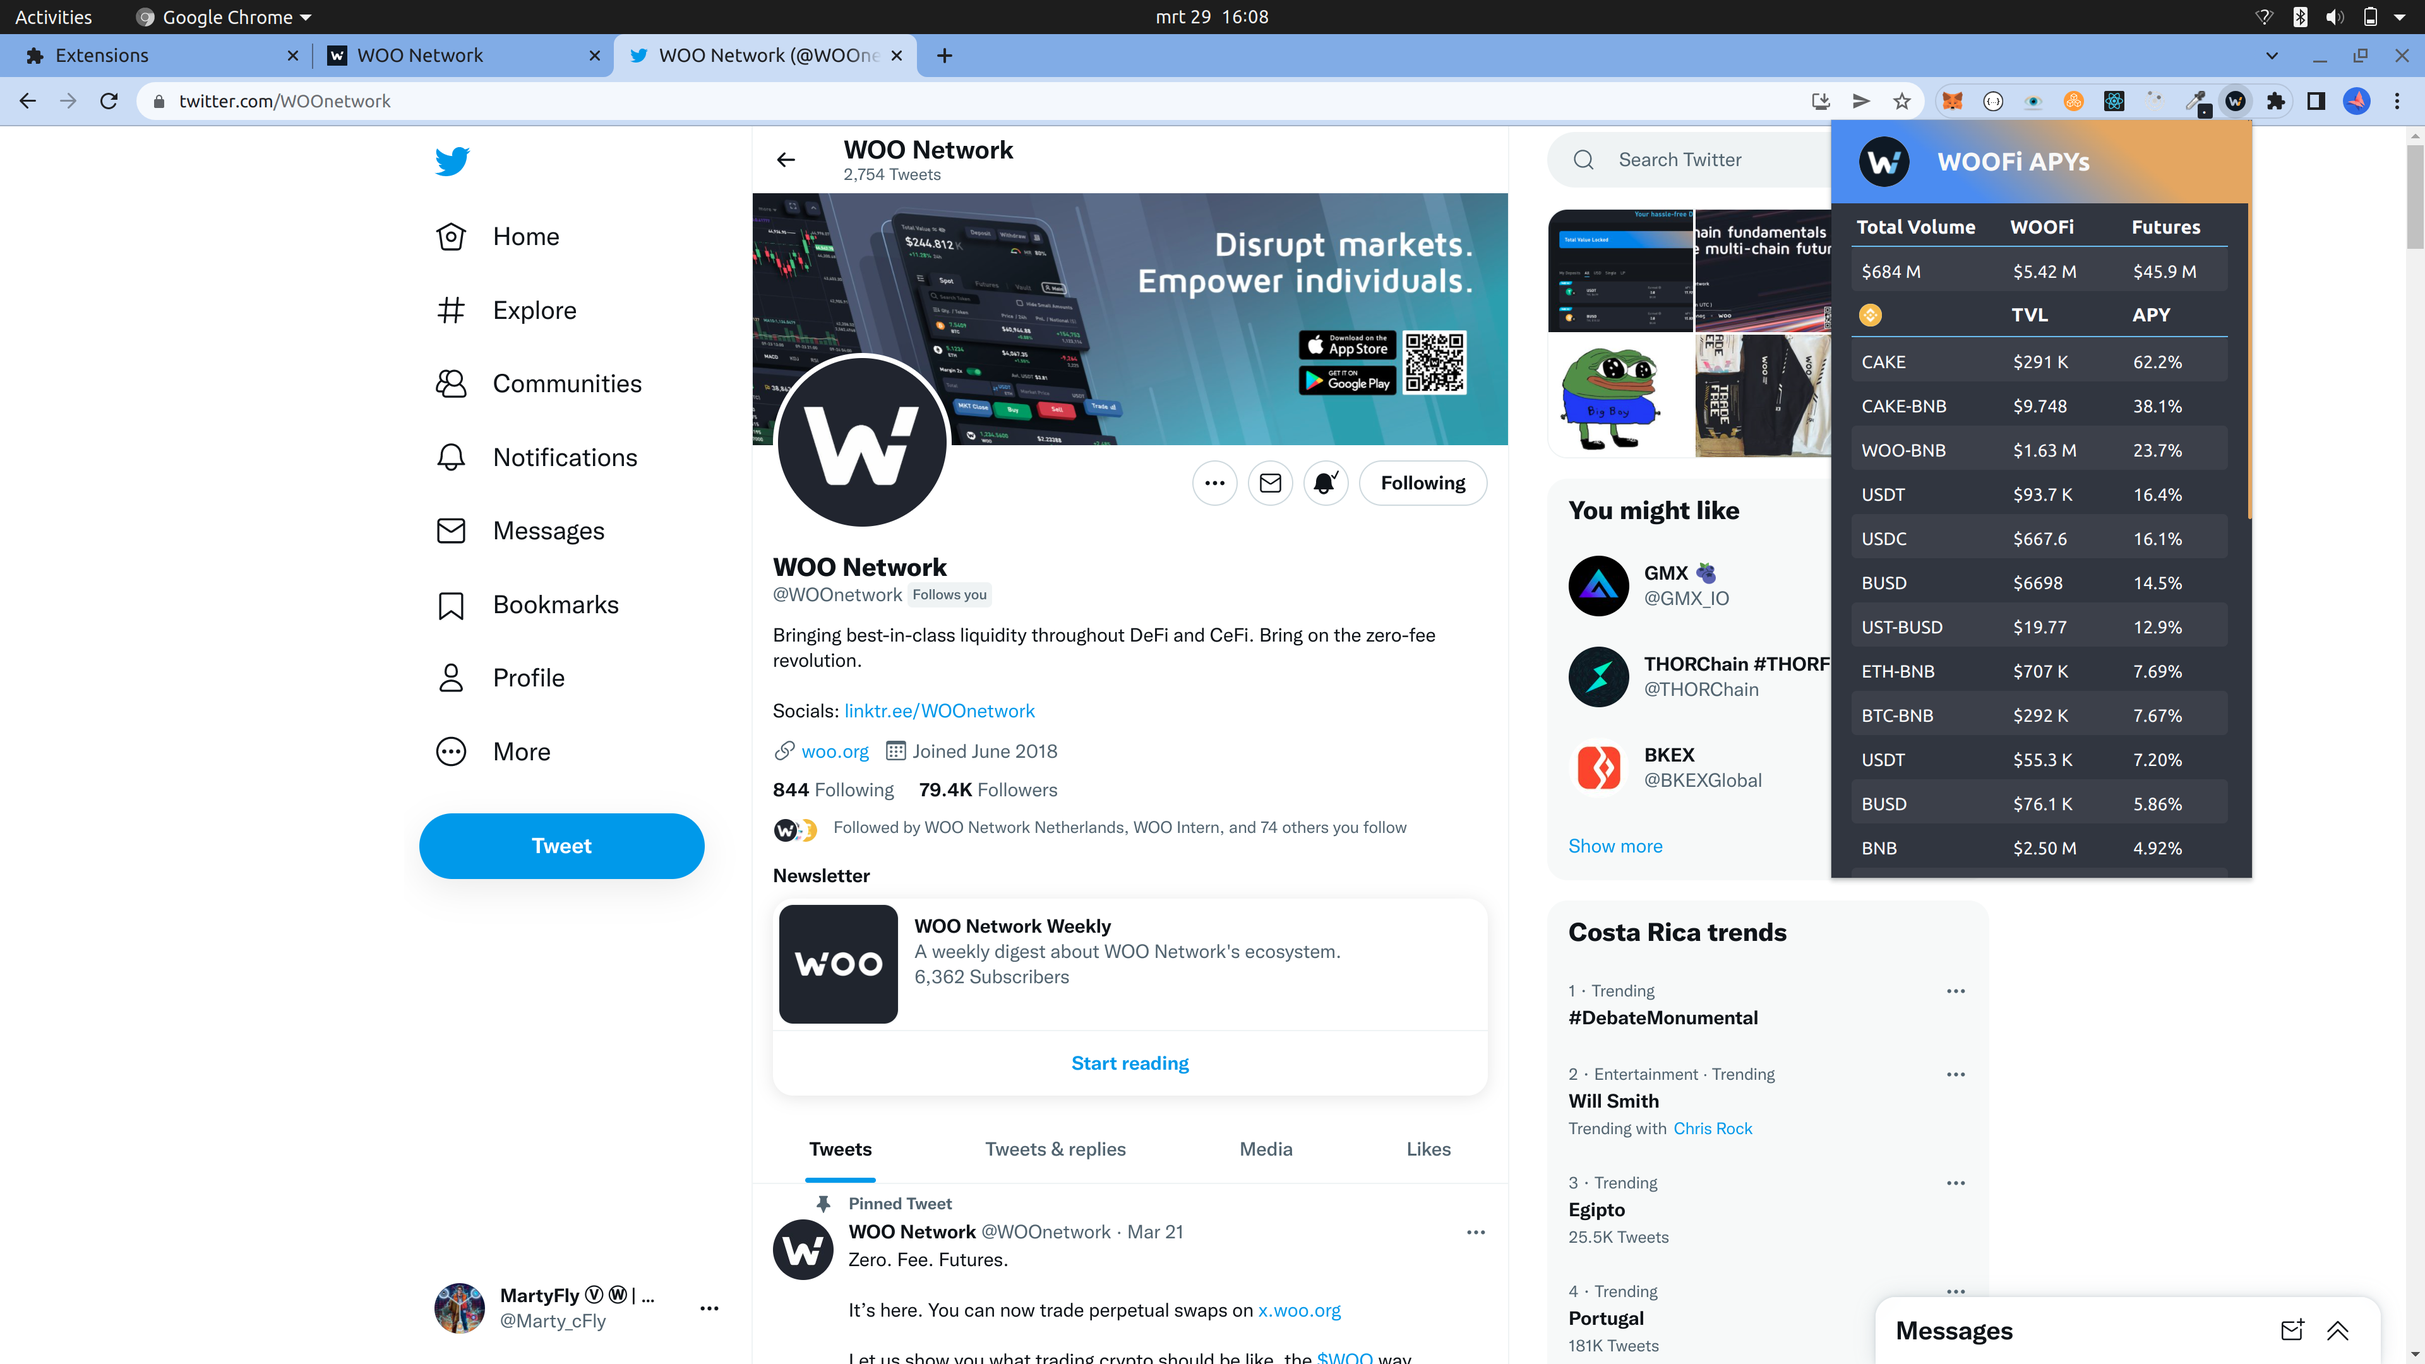
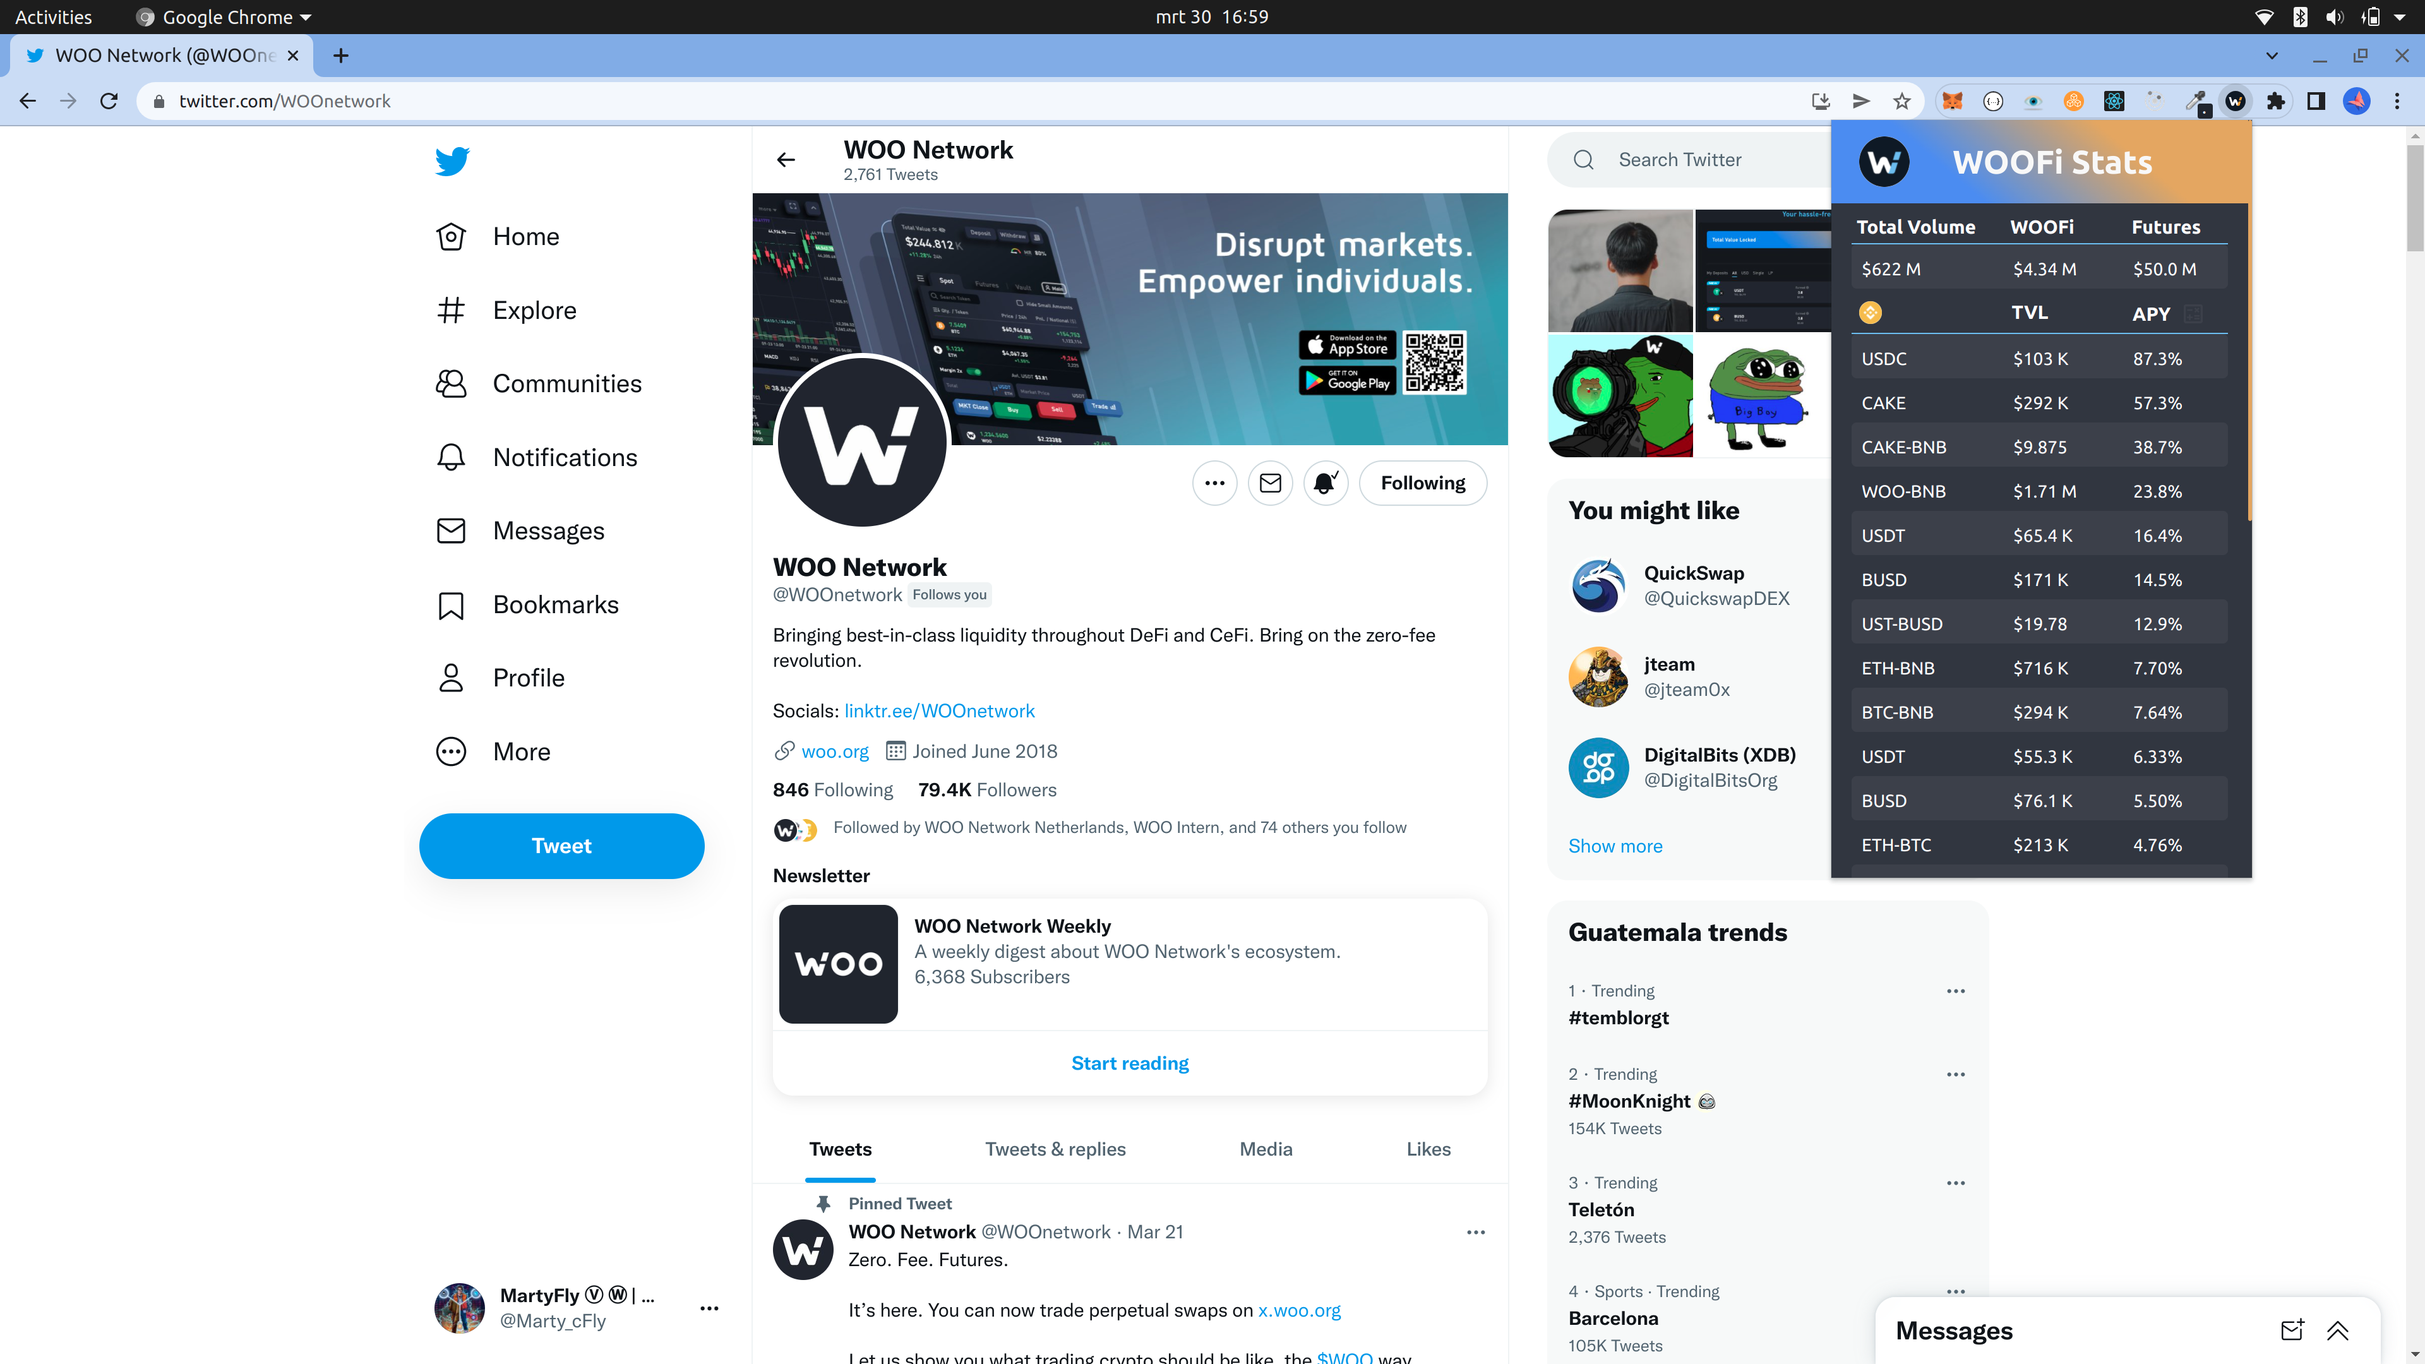
doc: Updated preview images

diff --git a/dist/popup.js b/dist/popup.js
@@ -99,7 +99,7 @@ __webpack_require__.r(__webpack_exports__);
 
 var ___CSS_LOADER_EXPORT___ = _node_modules_css_loader_dist_runtime_api_js__WEBPACK_IMPORTED_MODULE_1___default()((_node_modules_css_loader_dist_runtime_cssWithMappingToString_js__WEBPACK_IMPORTED_MODULE_0___default()));
 // Module
-___CSS_LOADER_EXPORT___.push([module.id, "#interaction-field {\n\tdisplay: flex;\n\tflex-direction: column;\n\tmargin: 0 16px;\n\tpadding: 8px 0 7px;\n\n\tcolor: white;\n}\n#interaction-field-header {\n\tborder-bottom: 1px solid #73bef4;\n\tfont-size: 15px;\n\tpadding: 3px 0px;\n\tpadding-left: 6px;\n\n\tfont-weight: bold;\n}\n\n.interaction-field-row {\n\tdisplay: flex;\n\t/* justify-content: flex-start; */\n\tjustify-content: space-between;\n\tpadding: 0 0 0 6px;\n}\n.input-field {\n\tmin-width: 25%;\n\tpadding: 2px 0;\n\tfont-size: 15px;\n}\n#input-amount {\n\tpadding: 0 2px;\n\n\twidth: 35px;\n\n\tcolor: white;\n\tbackground-color: #3c404b;\n\tborder: none;\n\tborder-radius: 4px;\n}\n\n#input-apy {\n\tpadding: 0 2px;\n\twidth: 35px;\n\n\tcolor: white;\n\tbackground-color: #3c404b;\n\tborder: none;\n\tborder-radius: 4px;\n}\n\n#input-days {\n\tpadding: 0 2px;\n\twidth: 35px;\n\n\tcolor: white;\n\tbackground-color: #3c404b;\n\tborder: none;\n\tborder-radius: 4px;\n}\n", "",{"version":3,"sources":["webpack://./src/components/InteractionField/InteractionField.css"],"names":[],"mappings":"AAAA;CACC,aAAa;CACb,sBAAsB;CACtB,cAAc;CACd,kBAAkB;;CAElB,YAAY;AACb;AACA;CACC,gCAAgC;CAChC,eAAe;CACf,gBAAgB;CAChB,iBAAiB;;CAEjB,iBAAiB;AAClB;;AAEA;CACC,aAAa;CACb,iCAAiC;CACjC,8BAA8B;CAC9B,kBAAkB;AACnB;AACA;CACC,cAAc;CACd,cAAc;CACd,eAAe;AAChB;AACA;CACC,cAAc;;CAEd,WAAW;;CAEX,YAAY;CACZ,yBAAyB;CACzB,YAAY;CACZ,kBAAkB;AACnB;;AAEA;CACC,cAAc;CACd,WAAW;;CAEX,YAAY;CACZ,yBAAyB;CACzB,YAAY;CACZ,kBAAkB;AACnB;;AAEA;CACC,cAAc;CACd,WAAW;;CAEX,YAAY;CACZ,yBAAyB;CACzB,YAAY;CACZ,kBAAkB;AACnB","sourcesContent":["#interaction-field {\n\tdisplay: flex;\n\tflex-direction: column;\n\tmargin: 0 16px;\n\tpadding: 8px 0 7px;\n\n\tcolor: white;\n}\n#interaction-field-header {\n\tborder-bottom: 1px solid #73bef4;\n\tfont-size: 15px;\n\tpadding: 3px 0px;\n\tpadding-left: 6px;\n\n\tfont-weight: bold;\n}\n\n.interaction-field-row {\n\tdisplay: flex;\n\t/* justify-content: flex-start; */\n\tjustify-content: space-between;\n\tpadding: 0 0 0 6px;\n}\n.input-field {\n\tmin-width: 25%;\n\tpadding: 2px 0;\n\tfont-size: 15px;\n}\n#input-amount {\n\tpadding: 0 2px;\n\n\twidth: 35px;\n\n\tcolor: white;\n\tbackground-color: #3c404b;\n\tborder: none;\n\tborder-radius: 4px;\n}\n\n#input-apy {\n\tpadding: 0 2px;\n\twidth: 35px;\n\n\tcolor: white;\n\tbackground-color: #3c404b;\n\tborder: none;\n\tborder-radius: 4px;\n}\n\n#input-days {\n\tpadding: 0 2px;\n\twidth: 35px;\n\n\tcolor: white;\n\tbackground-color: #3c404b;\n\tborder: none;\n\tborder-radius: 4px;\n}\n"],"sourceRoot":""}]);
+___CSS_LOADER_EXPORT___.push([module.id, "#interaction-field {\n\tdisplay: flex;\n\tflex-direction: column;\n\tmargin: 0 16px;\n\tpadding: 8px 0 0px;\n\n\tcolor: white;\n}\n#interaction-field-header {\n\tborder-bottom: 1px solid #73bef4;\n\tfont-size: 15px;\n\tpadding: 3px 0px;\n\tpadding-left: 6px;\n\n\tfont-weight: bold;\n}\n\n.interaction-field-row {\n\tdisplay: flex;\n\t/* justify-content: flex-start; */\n\tjustify-content: space-between;\n\tpadding: 0 0 0 6px;\n}\n.input-field {\n\tmin-width: 25%;\n\tpadding: 2px 0;\n\tfont-size: 15px;\n}\n#input-amount {\n\tpadding: 1px 2px;\n\n\twidth: 40px;\n\n\tcolor: white;\n\tbackground-color: #3c404b;\n\tborder: none;\n\tborder-radius: 4px;\n}\n\n#input-apy {\n\tpadding: 1px 2px;\n\twidth: 35px;\n\n\tcolor: white;\n\tbackground-color: #3c404b;\n\tborder: none;\n\tborder-radius: 4px;\n}\n\n#input-days {\n\tpadding: 1px 2px;\n\twidth: 35px;\n\n\tcolor: white;\n\tbackground-color: #3c404b;\n\tborder: none;\n\tborder-radius: 4px;\n}\n", "",{"version":3,"sources":["webpack://./src/components/InteractionField/InteractionField.css"],"names":[],"mappings":"AAAA;CACC,aAAa;CACb,sBAAsB;CACtB,cAAc;CACd,kBAAkB;;CAElB,YAAY;AACb;AACA;CACC,gCAAgC;CAChC,eAAe;CACf,gBAAgB;CAChB,iBAAiB;;CAEjB,iBAAiB;AAClB;;AAEA;CACC,aAAa;CACb,iCAAiC;CACjC,8BAA8B;CAC9B,kBAAkB;AACnB;AACA;CACC,cAAc;CACd,cAAc;CACd,eAAe;AAChB;AACA;CACC,gBAAgB;;CAEhB,WAAW;;CAEX,YAAY;CACZ,yBAAyB;CACzB,YAAY;CACZ,kBAAkB;AACnB;;AAEA;CACC,gBAAgB;CAChB,WAAW;;CAEX,YAAY;CACZ,yBAAyB;CACzB,YAAY;CACZ,kBAAkB;AACnB;;AAEA;CACC,gBAAgB;CAChB,WAAW;;CAEX,YAAY;CACZ,yBAAyB;CACzB,YAAY;CACZ,kBAAkB;AACnB","sourcesContent":["#interaction-field {\n\tdisplay: flex;\n\tflex-direction: column;\n\tmargin: 0 16px;\n\tpadding: 8px 0 0px;\n\n\tcolor: white;\n}\n#interaction-field-header {\n\tborder-bottom: 1px solid #73bef4;\n\tfont-size: 15px;\n\tpadding: 3px 0px;\n\tpadding-left: 6px;\n\n\tfont-weight: bold;\n}\n\n.interaction-field-row {\n\tdisplay: flex;\n\t/* justify-content: flex-start; */\n\tjustify-content: space-between;\n\tpadding: 0 0 0 6px;\n}\n.input-field {\n\tmin-width: 25%;\n\tpadding: 2px 0;\n\tfont-size: 15px;\n}\n#input-amount {\n\tpadding: 1px 2px;\n\n\twidth: 40px;\n\n\tcolor: white;\n\tbackground-color: #3c404b;\n\tborder: none;\n\tborder-radius: 4px;\n}\n\n#input-apy {\n\tpadding: 1px 2px;\n\twidth: 35px;\n\n\tcolor: white;\n\tbackground-color: #3c404b;\n\tborder: none;\n\tborder-radius: 4px;\n}\n\n#input-days {\n\tpadding: 1px 2px;\n\twidth: 35px;\n\n\tcolor: white;\n\tbackground-color: #3c404b;\n\tborder: none;\n\tborder-radius: 4px;\n}\n"],"sourceRoot":""}]);
 // Exports
 /* harmony default export */ const __WEBPACK_DEFAULT_EXPORT__ = (___CSS_LOADER_EXPORT___);
 
@@ -778,14 +778,17 @@ __webpack_require__.r(__webpack_exports__);
 
 
 
-const YieldFieldHeader = ({ logo, value_2, value_3, functionCallback, }) => {
+const YieldFieldHeader = ({ logo, value_2, value_3, functionCallback, displayCalculator, }) => {
     return (react__WEBPACK_IMPORTED_MODULE_0__.createElement("div", { className: "yield-field-header-values" },
         react__WEBPACK_IMPORTED_MODULE_0__.createElement("div", { className: "yield-field-header-value yield-field-header-logo" },
             react__WEBPACK_IMPORTED_MODULE_0__.createElement("img", { src: logo })),
         react__WEBPACK_IMPORTED_MODULE_0__.createElement("div", { className: "yield-field-header-value" }, value_2),
         react__WEBPACK_IMPORTED_MODULE_0__.createElement("div", { className: "yield-field-header-value" },
             value_3,
-            functionCallback && (react__WEBPACK_IMPORTED_MODULE_0__.createElement(_mui_material_IconButton__WEBPACK_IMPORTED_MODULE_2__.default, { style: { padding: '0 0 3px 8px', color: '#3c404b' }, "aria-label": "Calculate Yield", onClick: () => functionCallback(), size: "small" },
+            functionCallback && (react__WEBPACK_IMPORTED_MODULE_0__.createElement(_mui_material_IconButton__WEBPACK_IMPORTED_MODULE_2__.default, { style: {
+                    padding: '0 0 3px 8px',
+                    color: displayCalculator ? '#73bef4' : '#3c404b',
+                }, "aria-label": "Calculate Yield", onClick: () => functionCallback(), size: "small" },
                 react__WEBPACK_IMPORTED_MODULE_0__.createElement(_mui_icons_material_CalculateOutlined__WEBPACK_IMPORTED_MODULE_3__.default, { fontSize: "small" }))))));
 };
 /* harmony default export */ const __WEBPACK_DEFAULT_EXPORT__ = (YieldFieldHeader);
@@ -858,7 +861,7 @@ const App = () => {
     const [wooFi1DTotalVolume, setWooFi1DTotalVolume] = (0,react__WEBPACK_IMPORTED_MODULE_0__.useState)(0);
     const [wooNetworkInfo, setWooNetworkInfo] = (0,react__WEBPACK_IMPORTED_MODULE_0__.useState)();
     const [wooNetworkFuturesVolume, setWooNetworkFuturesVolume] = (0,react__WEBPACK_IMPORTED_MODULE_0__.useState)(0);
-    const [dispayCalculator, setDispayCalculator] = react__WEBPACK_IMPORTED_MODULE_0__.useState(false);
+    const [displayCalculator, setDisplayCalculator] = react__WEBPACK_IMPORTED_MODULE_0__.useState(false);
     (0,react__WEBPACK_IMPORTED_MODULE_0__.useEffect)(() => {
         getFuturesInfo();
         getWooNetworkInfo();
@@ -866,7 +869,7 @@ const App = () => {
         getaWooFiApyInfo();
     }, []);
     const handleCalculatorChange = () => {
-        setDispayCalculator(!dispayCalculator);
+        setDisplayCalculator(!displayCalculator);
     };
     function getaWooFiApyInfo() {
         return __awaiter(this, void 0, void 0, function* () {
@@ -916,13 +919,13 @@ const App = () => {
     };
     return (react__WEBPACK_IMPORTED_MODULE_0__.createElement(react__WEBPACK_IMPORTED_MODULE_0__.Fragment, null,
         react__WEBPACK_IMPORTED_MODULE_0__.createElement(_components_HeaderField__WEBPACK_IMPORTED_MODULE_4__.default, null),
-        dispayCalculator && react__WEBPACK_IMPORTED_MODULE_0__.createElement(_components_InteractionField__WEBPACK_IMPORTED_MODULE_9__.default, null),
+        displayCalculator && react__WEBPACK_IMPORTED_MODULE_0__.createElement(_components_InteractionField__WEBPACK_IMPORTED_MODULE_9__.default, null),
         react__WEBPACK_IMPORTED_MODULE_0__.createElement(_components_WooNetworkFieldHeader__WEBPACK_IMPORTED_MODULE_7__.default, null),
         wooNetworkInfo && (react__WEBPACK_IMPORTED_MODULE_0__.createElement(_components_InfoField__WEBPACK_IMPORTED_MODULE_5__.default, { index: 2, symbol: `$${(0,_utils_amountFormatter__WEBPACK_IMPORTED_MODULE_11__.amountFormatter)(wooNetworkInfo.data.amount)}`, tvl: `$${(0,_utils_amountFormatter__WEBPACK_IMPORTED_MODULE_11__.amountFormatter)(wooFi1DTotalVolume / Math.pow(10, 18))}`, apy: `$${(0,_utils_amountFormatter__WEBPACK_IMPORTED_MODULE_11__.amountFormatter)(wooNetworkFuturesVolume)} ` })),
-        react__WEBPACK_IMPORTED_MODULE_0__.createElement(_components_YieldFieldHeader__WEBPACK_IMPORTED_MODULE_6__.default, { logo: BscIcon, value_2: 'TVL', value_3: 'APY', functionCallback: handleCalculatorChange }),
+        react__WEBPACK_IMPORTED_MODULE_0__.createElement(_components_YieldFieldHeader__WEBPACK_IMPORTED_MODULE_6__.default, { logo: BscIcon, value_2: 'TVL', value_3: 'APY', functionCallback: handleCalculatorChange, displayCalculator: displayCalculator }),
         bscNetworkEarnInfo.length > 0 &&
             bscNetworkEarnInfo.map((tokenInfo, index) => (react__WEBPACK_IMPORTED_MODULE_0__.createElement(_components_InfoField__WEBPACK_IMPORTED_MODULE_5__.default, { key: index, index: index, symbol: tokenInfo.symbol.replaceAll('_', '-').replace('-LP', ''), tvl: `$${(0,_utils_amountFormatter__WEBPACK_IMPORTED_MODULE_11__.amountFormatter)(parseInt(tokenInfo.tvl) / Math.pow(10, 18))}`, apy: `${tokenInfo.apy.toPrecision(3)}%` }))),
-        react__WEBPACK_IMPORTED_MODULE_0__.createElement(_components_YieldFieldHeader__WEBPACK_IMPORTED_MODULE_6__.default, { logo: AvaxIcon, value_2: '', value_3: '', functionCallback: '' }),
+        react__WEBPACK_IMPORTED_MODULE_0__.createElement(_components_YieldFieldHeader__WEBPACK_IMPORTED_MODULE_6__.default, { logo: AvaxIcon, value_2: '', value_3: '', functionCallback: '', displayCalculator: displayCalculator }),
         avaxNetworkEarnInfo.length > 0 &&
             avaxNetworkEarnInfo.map((tokenInfo, index) => (react__WEBPACK_IMPORTED_MODULE_0__.createElement(_components_InfoField__WEBPACK_IMPORTED_MODULE_5__.default, { key: index, index: index, symbol: tokenInfo.symbol.replaceAll('_', '-').replace('-LP', ''), tvl: `$${(0,_utils_amountFormatter__WEBPACK_IMPORTED_MODULE_11__.amountFormatter)(parseInt(tokenInfo.tvl) / Math.pow(10, 18))}`, apy: `${tokenInfo.apy.toPrecision(3)}%` }))),
         react__WEBPACK_IMPORTED_MODULE_0__.createElement(_components_LinksField__WEBPACK_IMPORTED_MODULE_8__.default, { twitterHandle: "WOOnetwork", discordHandle: "woonetwork", telegramHandle: "woonetwork" }),

diff --git a/src/popup/popup.tsx b/src/popup/popup.tsx
@@ -32,7 +32,9 @@ const App = () => {
 	const [wooNetworkInfo, setWooNetworkInfo] = useState()
 	const [wooNetworkFuturesVolume, setWooNetworkFuturesVolume] = useState(0)
 
-	const [dispayCalculator, setDispayCalculator] = React.useState<boolean>(false)
+	const [displayCalculator, setDisplayCalculator] = React.useState<boolean>(
+		false
+	)
 
 	useEffect(() => {
 		getFuturesInfo()
@@ -42,7 +44,7 @@ const App = () => {
 	}, [])
 
 	const handleCalculatorChange = () => {
-		setDispayCalculator(!dispayCalculator)
+		setDisplayCalculator(!displayCalculator)
 	}
 
 	async function getaWooFiApyInfo() {
@@ -103,7 +105,7 @@ const App = () => {
 	return (
 		<>
 			<HeaderField />
-			{dispayCalculator && <InteractionField />}
+			{displayCalculator && <InteractionField />}
 
 			<WooNetworkFieldHeader />
 			{wooNetworkInfo && (
@@ -120,6 +122,7 @@ const App = () => {
 				value_2={'TVL'}
 				value_3={'APY'}
 				functionCallback={handleCalculatorChange}
+				displayCalculator={displayCalculator}
 			/>
 
 			{bscNetworkEarnInfo.length > 0 &&
@@ -138,6 +141,7 @@ const App = () => {
 				value_2={''}
 				value_3={''}
 				functionCallback={''}
+				displayCalculator={displayCalculator}
 			/>
 			{avaxNetworkEarnInfo.length > 0 &&
 				avaxNetworkEarnInfo.map((tokenInfo, index) => (

diff --git a/src/components/YieldFieldHeader/YieldFieldHeader.tsx b/src/components/YieldFieldHeader/YieldFieldHeader.tsx
@@ -9,6 +9,7 @@ interface YieldFieldHeaderProps {
 	value_2: string
 	value_3: string
 	functionCallback: any
+	displayCalculator: boolean
 }
 
 const YieldFieldHeader: React.FC<YieldFieldHeaderProps> = ({
@@ -16,6 +17,7 @@ const YieldFieldHeader: React.FC<YieldFieldHeaderProps> = ({
 	value_2,
 	value_3,
 	functionCallback,
+	displayCalculator,
 }) => {
 	return (
 		<div className="yield-field-header-values">
@@ -27,7 +29,10 @@ const YieldFieldHeader: React.FC<YieldFieldHeaderProps> = ({
 				{value_3}
 				{functionCallback && (
 					<IconButton
-						style={{ padding: '0 0 3px 8px', color: '#3c404b' }}
+						style={{
+							padding: '0 0 3px 8px',
+							color: displayCalculator ? '#73bef4' : '#3c404b',
+						}}
 						aria-label="Calculate Yield"
 						onClick={() => functionCallback()}
 						size="small"

diff --git a/src/components/InteractionField/InteractionField.css b/src/components/InteractionField/InteractionField.css
@@ -2,7 +2,7 @@
 	display: flex;
 	flex-direction: column;
 	margin: 0 16px;
-	padding: 8px 0 7px;
+	padding: 8px 0 0px;
 
 	color: white;
 }
@@ -27,9 +27,9 @@
 	font-size: 15px;
 }
 #input-amount {
-	padding: 0 2px;
+	padding: 1px 2px;
 
-	width: 35px;
+	width: 40px;
 
 	color: white;
 	background-color: #3c404b;
@@ -38,7 +38,7 @@
 }
 
 #input-apy {
-	padding: 0 2px;
+	padding: 1px 2px;
 	width: 35px;
 
 	color: white;
@@ -48,7 +48,7 @@
 }
 
 #input-days {
-	padding: 0 2px;
+	padding: 1px 2px;
 	width: 35px;
 
 	color: white;
